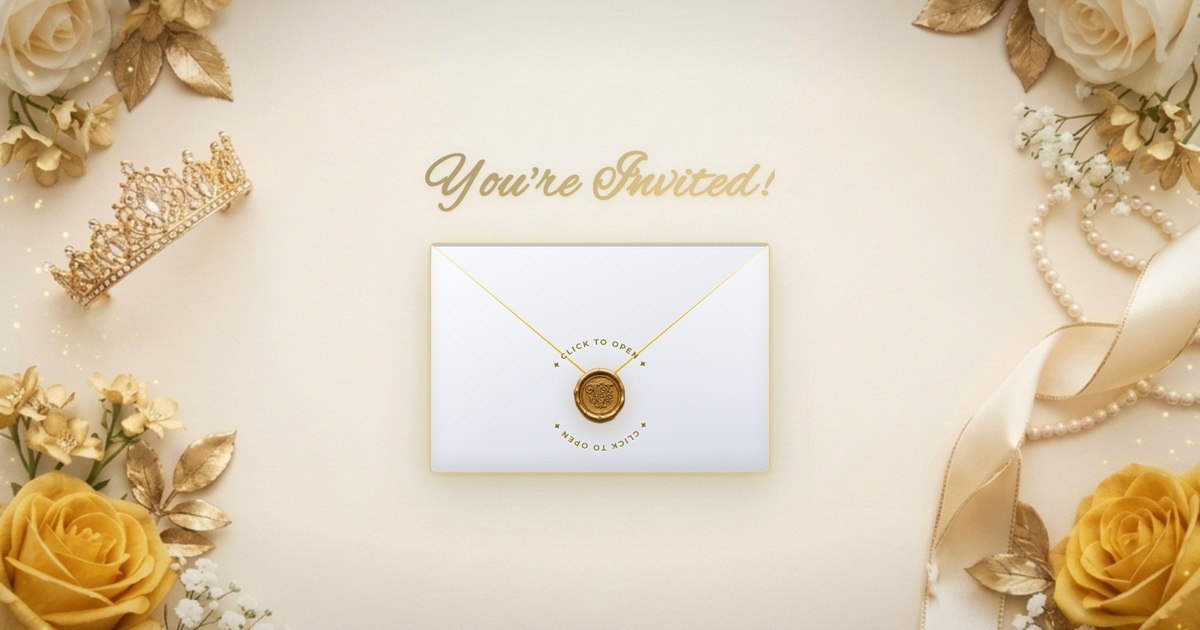
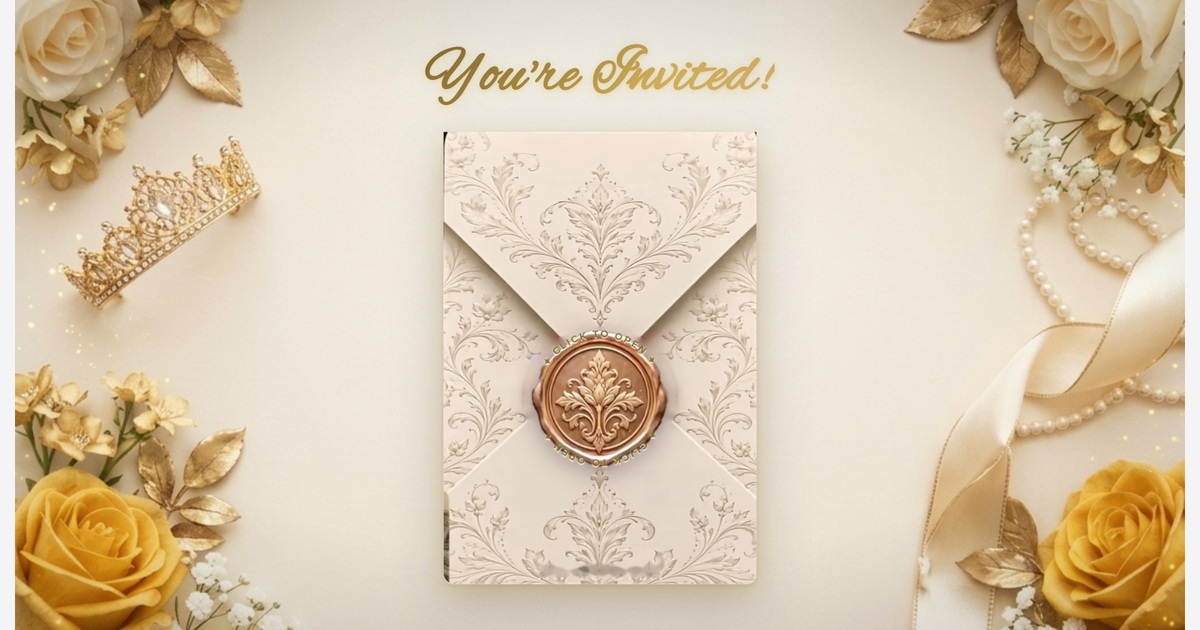
feat(victoriarosales): update og preview image and tags to new warm champagne rococo envelope

diff --git a/victoriarosales/index.html b/victoriarosales/index.html
@@ -18,8 +18,8 @@
   <meta property="og:title" content="Victoria Rosales — Quinceañera" />
   <meta property="og:description"
     content="Join us to celebrate Victoria Rosales's Quinceañera! Saturday, July 3, 2027 at Jardín Alma in Jiutepec, Morelos, Mexico." />
-  <meta property="og:image" content="https://disenosluna.com/victoriarosales/photos/og-preview.jpg?v=2" />
-  <meta property="og:image:secure_url" content="https://disenosluna.com/victoriarosales/photos/og-preview.jpg?v=2" />
+  <meta property="og:image" content="https://disenosluna.com/victoriarosales/photos/og-preview.jpg?v=3" />
+  <meta property="og:image:secure_url" content="https://disenosluna.com/victoriarosales/photos/og-preview.jpg?v=3" />
   <meta property="og:image:type" content="image/jpeg" />
   <meta property="og:image:width" content="1200" />
   <meta property="og:image:height" content="630" />
@@ -31,7 +31,7 @@
   <meta name="twitter:title" content="Victoria Rosales — Quinceañera" />
   <meta name="twitter:description"
     content="Join us to celebrate Victoria Rosales's Quinceañera! Saturday, July 3, 2027 at Jardín Alma in Jiutepec, Morelos, Mexico." />
-  <meta name="twitter:image" content="https://disenosluna.com/victoriarosales/photos/og-preview.jpg?v=2" />
+  <meta name="twitter:image" content="https://disenosluna.com/victoriarosales/photos/og-preview.jpg?v=3" />
 
   <!-- Favicon / Apple Touch Icon -->
   <link rel="icon" type="image/svg+xml" href="favicon.svg?v=3" />
